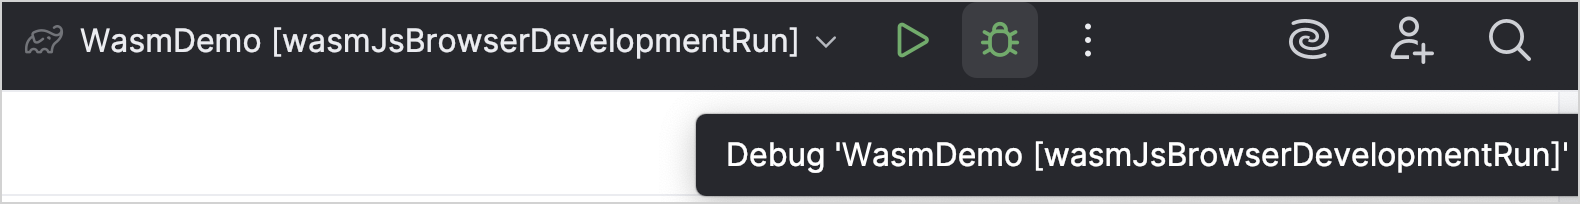
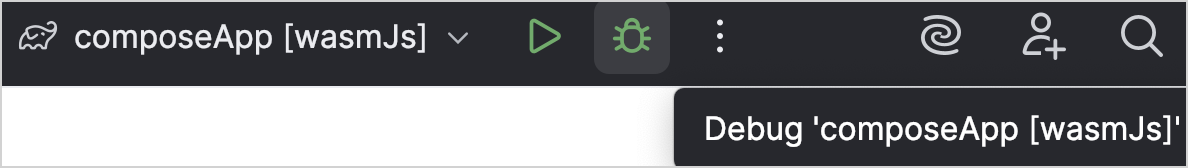
Replace screenshots

diff --git a/docs/topics/wasm/wasm-js-interop.md b/docs/topics/wasm/wasm-js-interop.md
@@ -439,22 +439,6 @@ feature:
 * Firefox 129+
 * Safari 18.4+
 
-### Exception handling in older browsers {initial-collapse-state="collapsed" collapsible="true"}
-
-To use exception handling in older browsers, you have to configure the `JsException`
-type to include the original error message and stack trace from JavaScript.
-To do so, add the following compiler option to your `build.gradle.kts` file:
-
-```kotlin
-kotlin {
-    wasmJs {
-        compilerOptions {
-            freeCompilerArgs.add("-Xwasm-attach-js-exception")
-        }
-    }
-}
-```
-
 ## Kotlin/Wasm and Kotlin/JS interoperability differences
 
 Although Kotlin/Wasm interoperability shares similarities with Kotlin/JS interoperability, there are key differences to consider:

diff --git a/docs/topics/wasm/wasm-debugging.md b/docs/topics/wasm/wasm-debugging.md
@@ -34,9 +34,9 @@ in IntelliJ IDEA out of the box, without additional configurations.
 
    ![Set breakpoints](wasm-breakpoints-intellij.png){width=650}
 
-3. In the list of run configurations, select `wasmJsBrowserDevelopmentRun`.
+3. In the list of run configurations, select **composeApp[wasmJs]**.
 4. Run the code in debug mode by clicking the debug icon at the top of the screen. Make sure
-   you run the `wasmJsBrowserDevelopmentRun` configuration.
+   you run the **composeApp[wasmJs]** configuration.
 
    ![Run in debug mode](wasm-debug-run-configurations.png){width=600}
 
